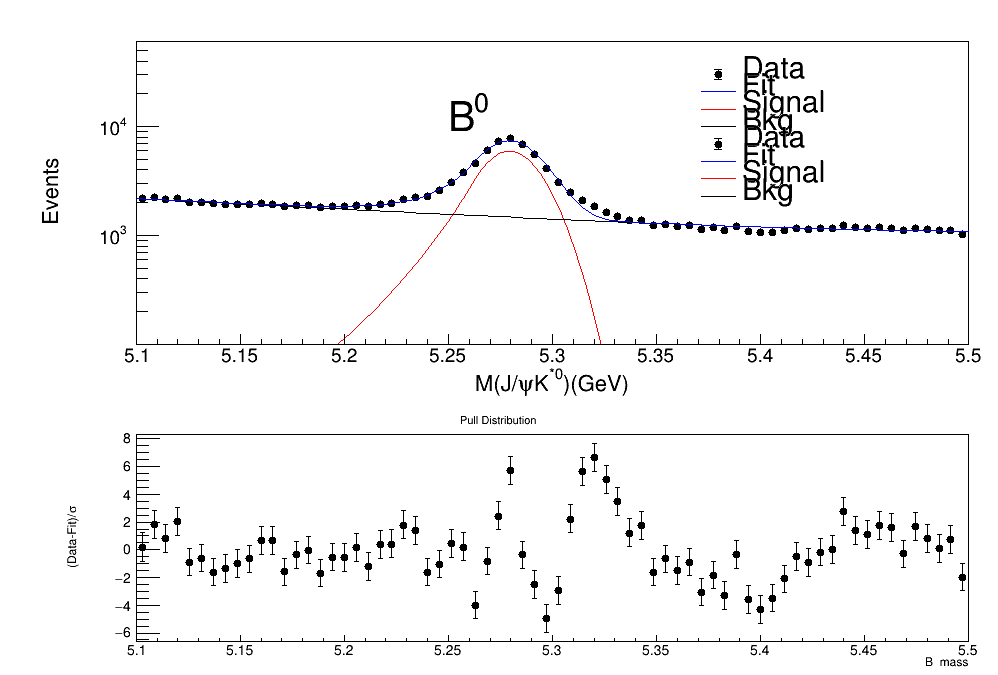
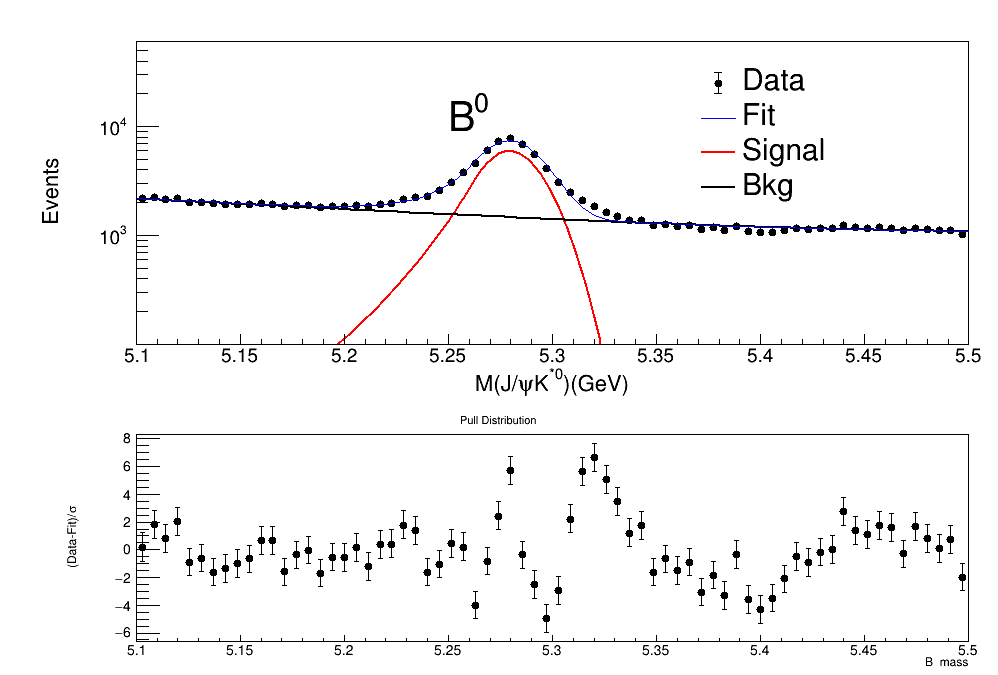
update

Changed region(s): [[0.7144, 0.0622, 0.8387, 0.3111]]

diff --git a/Codes/Josue/analisis.C b/Codes/Josue/analisis.C
@@ -149,6 +149,12 @@ void analisis(){
   //Canvas 1
   TCanvas *c1 = new TCanvas("c1", "c1", 900, 700);
   c1->cd();
+  TPad *pad = new TPad("p", "", 0.01,0.01,0.99,0.99);
+  pad->SetLeftMargin(0.13);   
+  pad->SetRightMargin(0.019);
+  pad->SetBottomMargin(0.15);
+  pad->SetTopMargin(0.09);
+  pad->Draw();
 
   gPad->SetLogy();
   RooPlot* frame = Bm.frame(5.1, 5.5, 70);
